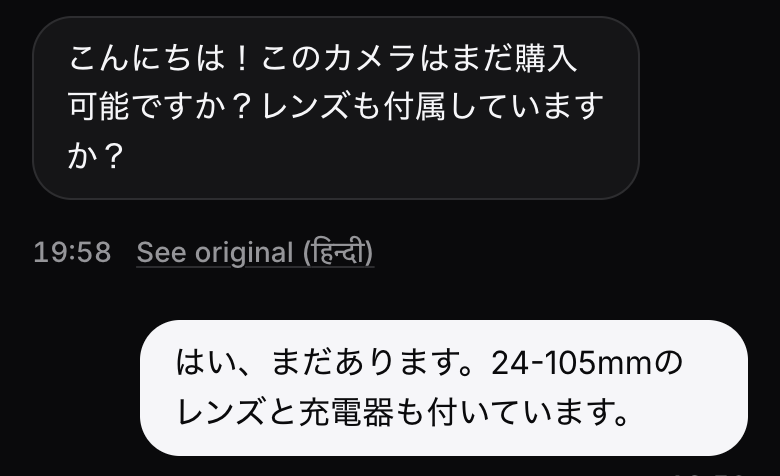
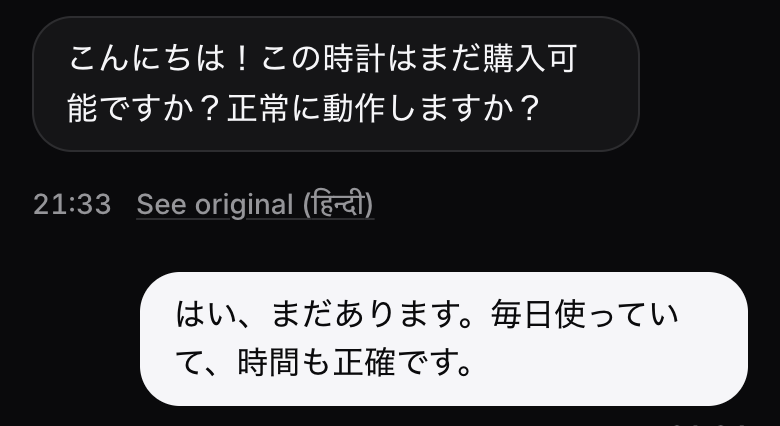
feat: amounts survive translation, agents read English, fresh demo chat, clean landing captures
- Translation: prompt keeps every ₹ amount; a check rejects any translation
  that drops or changes one (a model turned ₹14,000 into 14,000円) and tries
  the next model; unit test for the amount extractor.
- /prepare always adds English, the agents' working language, so an
  English-only agent reads the whole transcript (Golden Path step 5).
- Demo chat moves to channel ch_demo_watch_2 (Nexconn keeps history per id
  and our plan can't edit server history); the seed renames the old row so
  its deals and cases follow. Seeded through the real UI: a short Hindi ↔
  Japanese exchange, a deal sealed at ₹15,000 (s_87468c987cbedafb), and one
  open demo help request for judges to claim.
- Landing captures retaken from the clean demo data.

diff --git a/apps/web/src/app/page.tsx b/apps/web/src/app/page.tsx
@@ -53,11 +53,11 @@ export default function Home() {
           {/* Signature: the same exchange on two screens */}
           <div className="flex flex-col gap-4">
             <figure className="flex w-full flex-col gap-2 sm:w-[88%]">
-              <Shot src="/screens/chat-buyer.png" alt="Priya's screen: her message and Kenji's reply, both in Hindi" w={780} h={382} hero />
+              <Shot src="/screens/chat-buyer.png" alt="Priya's screen: her question about the watch and Kenji's reply, both in Hindi" w={780} h={432} hero />
               <figcaption className="text-sm text-muted">Priya reads Hindi</figcaption>
             </figure>
             <figure className="flex w-full flex-col gap-2 self-end sm:w-[88%]">
-              <Shot src="/screens/chat-seller.png" alt="Kenji's screen: the same two messages, both in Japanese" w={780} h={476} hero />
+              <Shot src="/screens/chat-seller.png" alt="Kenji's screen: the same question and reply, both in Japanese" w={780} h={426} hero />
               <figcaption className="text-sm text-muted">Kenji reads Japanese</figcaption>
             </figure>
           </div>
@@ -105,7 +105,7 @@ export default function Home() {
             Tap Get help and an agent joins the chat. They see what each side wrote, what each side read, and the deal you both agreed to.
           </p>
         </div>
-        <Shot src="/screens/agent.png" alt="The agent console: the conversation in the original and in the agent's language, beside the case summary" w={2512} h={816} />
+        <Shot src="/screens/agent.png" alt="The agent console: each message in the original and in English, beside the case summary and the frozen deal" w={2512} h={1524} />
       </section>
 
       {/* Close */}

diff --git a/apps/server/src/services/translation.service.ts b/apps/server/src/services/translation.service.ts
@@ -45,13 +45,23 @@ async function translateWithGemini(text: string, from: LangCode, to: LangCode): 
   const prompt = `You are a real-time translation engine for Handshake, a cross-language marketplace.
 Translate the following message directly from language code '${from}' to '${to}'.
 Guidelines:
-- Preserve currency figures, numbers, and proper nouns.
+- Keep every amount and currency symbol exactly as written: "₹14,000" stays "₹14,000". Never convert currencies or units.
+- Preserve numbers and proper nouns.
 - Keep the natural, concise conversational tone of buyer-seller negotiation.
 - Output ONLY the translated text without extra formatting, explanations, or quotes.
 
 Message:
 ${text}`;
-  return geminiGenerate([{ text: prompt }], { maxOutputTokens: 512, timeoutMs: 3500 });
+  const out = await geminiGenerate([{ text: prompt }], { maxOutputTokens: 512, timeoutMs: 3500 });
+  // Meaning check: every rupee amount in the source must survive word for word (a model once turned ₹14,000 into 14,000円).
+  const missing = rupeeAmounts(text).filter((amt) => !out.replace(/\s/g, '').includes(amt));
+  if (missing.length) throw new Error(`translation changed an amount (${missing.join(', ')})`);
+  return out;
+}
+
+/** "₹14,000", "Rs 500", "INR 2,00,000" → the digits with their ₹ form, e.g. ["₹14,000"]. */
+export function rupeeAmounts(text: string): string[] {
+  return [...text.matchAll(/(?:₹|\bRs\.?|\bINR)\s?(\d[\d,]*(?:\.\d+)?)/gi)].map((m) => `₹${m[1]}`).filter((a) => text.includes(a));
 }
 
 /**

diff --git a/apps/server/src/services/demo.service.ts b/apps/server/src/services/demo.service.ts
@@ -39,7 +39,9 @@ const DEMO_USERS: Record<'buyer' | 'seller' | 'agent', DemoUserDefinition> = {
 };
 
 const DEMO_LISTING_ID = 'demo_l_vintage_watch';
-const DEMO_CHANNEL_ID = 'ch_demo_u_buyer_demo_l_vintage_watch';
+// Bump the suffix to give the demo chat a fresh, empty Nexconn conversation (Nexconn keeps history per id,
+// and server-side history can't be edited on our plan). _2: reset after D-029 moved chats to groups.
+const DEMO_CHANNEL_ID = 'ch_demo_watch_2';
 
 /**
  * Seeds baseline demo data (fixed users, sample listing, and active chat).
@@ -118,7 +120,11 @@ export async function seedDemoEnvironment(): Promise<void> {
     },
   });
 
-  // 5. Ensure demo chat exists
+  // 5. Ensure demo chat exists (renaming an older demo chat row moves its deals and cases with it: FK cascade)
+  await prisma.chat.updateMany({
+    where: { buyerId: DEMO_USERS.buyer.id, listingId: DEMO_LISTING_ID, NOT: { channelId: DEMO_CHANNEL_ID } },
+    data: { channelId: DEMO_CHANNEL_ID },
+  });
   await prisma.chat.upsert({
     where: { channelId: DEMO_CHANNEL_ID },
     update: {},

diff --git a/apps/server/src/services/message-prepare.service.ts b/apps/server/src/services/message-prepare.service.ts
@@ -53,6 +53,10 @@ export async function prepareMessage(
     recipientLangs.push(input.senderLang);
   }
 
+  // Also English, the support agents' working language (Golden Path step 5: an English-only agent reads the
+  // whole conversation). translateText returns the text unchanged when the sender already wrote English.
+  if (input.senderLang !== 'en' && !recipientLangs.includes('en')) recipientLangs.push('en');
+
   // 4. Translate into all recipient languages in parallel
   const tr = await translateForRecipients(input.text, input.senderLang, recipientLangs);
 

diff --git a/apps/server/test/guard-unit.test.ts b/apps/server/test/guard-unit.test.ts
@@ -103,3 +103,11 @@ describe('Translation Service Unit Tests', () => {
   }, 15000);
 });
 
+
+describe('Translation meaning check', () => {
+  it('extracts the ₹ amounts a translation must keep word for word', async () => {
+    const { rupeeAmounts } = await import('../src/services/translation.service.js');
+    expect(rupeeAmounts('क्या आप ₹14,000 में देंगे? या ₹2,00,000?')).toEqual(['₹14,000', '₹2,00,000']);
+    expect(rupeeAmounts('No amounts here')).toEqual([]);
+  });
+});
